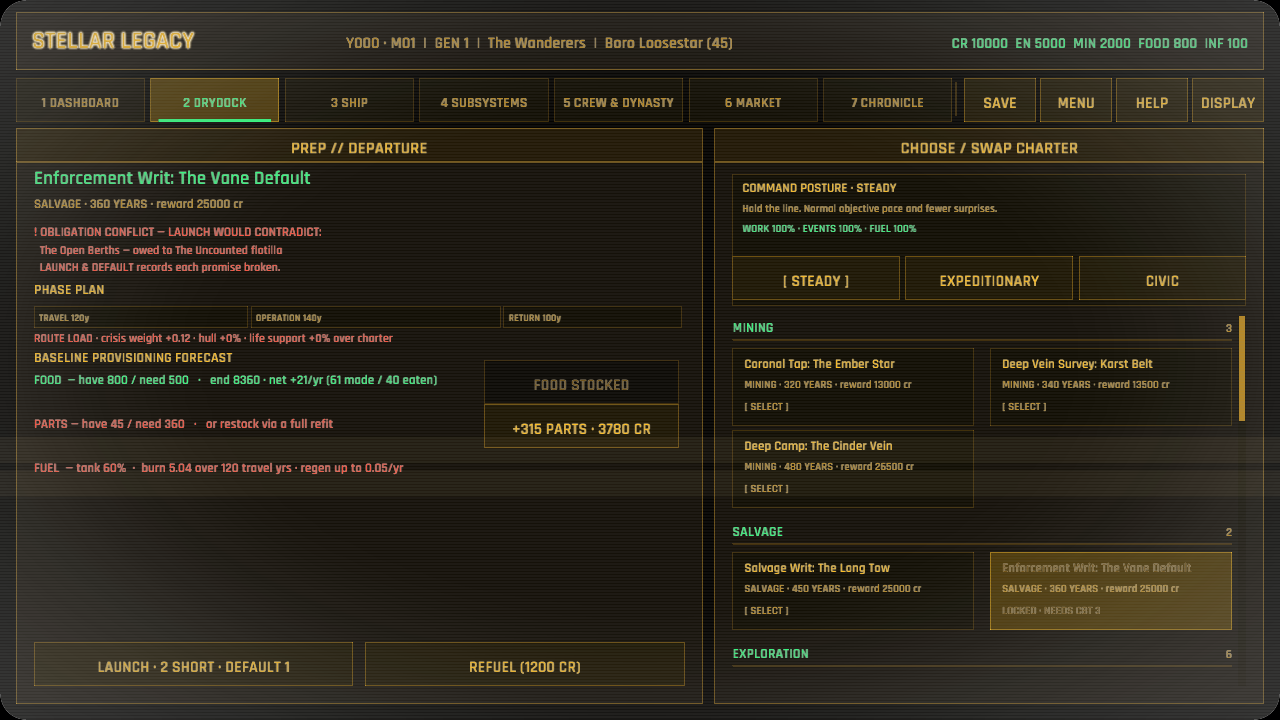
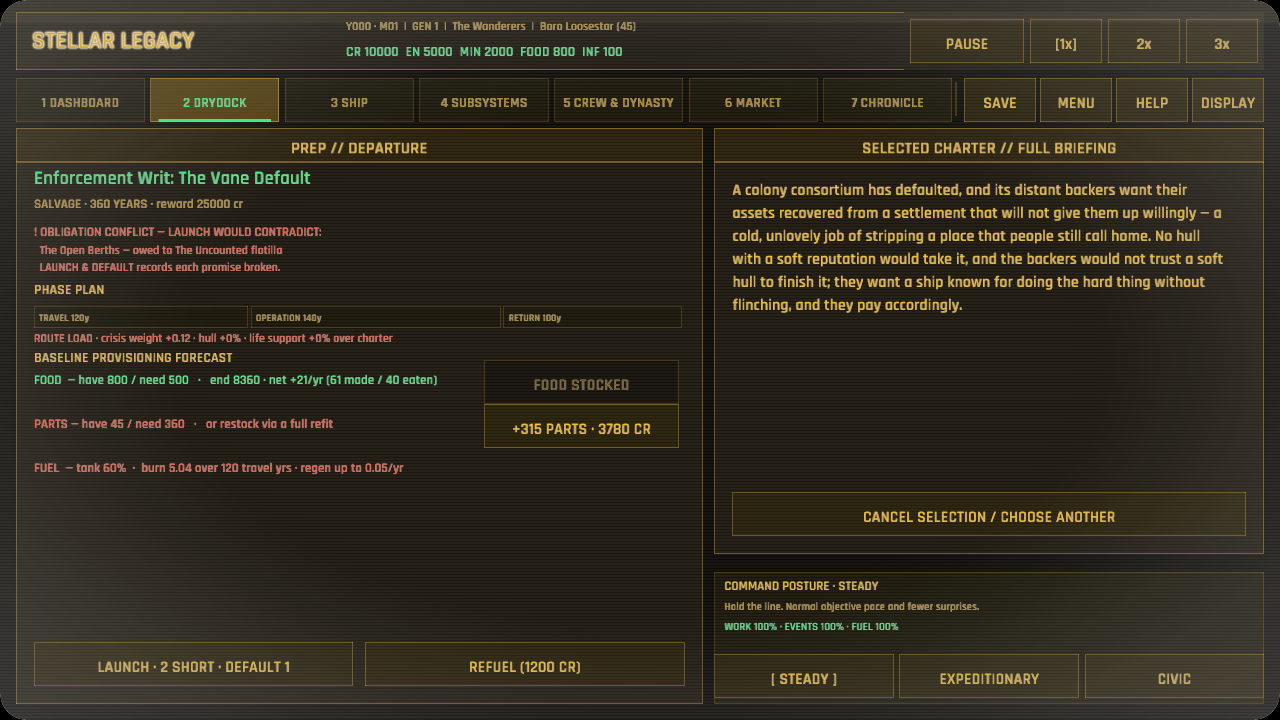
The captain reads the writ and may turn home (mission briefing and cancellation)
Show the complete selected charter in a scrollable briefing and allow selection cancellation before launch. Make the existing return-home action explicit and confirm its duration and prorated pay. Retire abandoned itinerary beats while retaining campaign consequences. Regression and abort persistence tests passed, as did the full publisher and inspected briefing and confirmation captures.

diff --git a/src/ui/mission.rs b/src/ui/mission.rs
@@ -1,0 +1,101 @@
+//! Full charter reading and explicit return-home confirmation.
+use crate::ui::{term, term_button, term_panel, GameplayCtx, UiAction};
+use macroquad::prelude::*;
+use macroquad_toolkit::prelude::*;
+use macroquad_toolkit::ui::{draw_text_block, draw_ui_text_ex, occlude, wrap_text_ex, RectExt};
+
+pub fn draw_selected(
+    ctx: &GameplayCtx<'_>,
+    area: Rect,
+    pointer: Pointer,
+    actions: &mut Vec<UiAction>,
+) {
+    let Some(template) = ctx
+        .sim
+        .selected_charter
+        .as_ref()
+        .and_then(|id| ctx.data.contracts.get(id))
+    else {
+        return;
+    };
+    let detail = Rect::new(area.x, area.y, area.w, area.h - 150.0);
+    term_panel(detail, Some("SELECTED CHARTER // FULL BRIEFING"));
+    let content = detail.inset(18.0);
+    let view = Rect::new(content.x, content.y + 32.0, content.w, content.h - 98.0);
+    let lines = wrap_text_ex(&template.description, view.w - 18.0, None, 16.0);
+    let height = lines.len() as f32 * 23.0;
+    let mut scroll = ctx.description_scroll.get();
+    scroll.update_at(view, height, pointer.position);
+    for (i, line) in lines.iter().enumerate() {
+        let y = view.y + i as f32 * 23.0 - scroll.offset();
+        if y >= view.y && y + 23.0 <= view.bottom() {
+            draw_ui_text_ex(
+                line,
+                view.x,
+                y + 17.0,
+                TextStyle::new(16.0, term::primary()).params(),
+            );
+        }
+    }
+    scroll.draw_scrollbar_with(
+        view,
+        height,
+        term::surface_inset(),
+        term::dim(),
+        term::primary(),
+    );
+    ctx.description_scroll.set(scroll);
+    if term_button(
+        Rect::new(content.x, content.bottom() - 44.0, content.w, 44.0),
+        "CANCEL SELECTION / CHOOSE ANOTHER",
+        true,
+        pointer,
+    ) {
+        actions.push(UiAction::CancelSelection);
+    }
+    crate::ui::contract_systems::outlook::draw_posture(
+        ctx,
+        Rect::new(area.x, area.bottom() - 132.0, area.w, 132.0),
+        pointer,
+        actions,
+    );
+}
+
+pub fn draw_abort(ctx: &GameplayCtx<'_>, pointer: Pointer, actions: &mut Vec<UiAction>) {
+    let Some(contract) = &ctx.sim.contract else {
+        ctx.abort_confirm.set(false);
+        return;
+    };
+    let Some(index) = contract.first_return_index() else {
+        ctx.abort_confirm.set(false);
+        return;
+    };
+    let years: u32 = contract
+        .phases
+        .iter()
+        .skip(index)
+        .map(|phase| phase.years)
+        .sum();
+    let panel = Rect::new(300.0, 190.0, 680.0, 330.0);
+    draw_rectangle(0.0, 72.0, 1280.0, 648.0, Color::new(0.0, 0.0, 0.0, 0.82));
+    occlude(Rect::new(0.0, 72.0, 1280.0, 648.0));
+    term_panel(panel, Some("CANCEL MISSION?"));
+    draw_text_block(&format!("Turn {} for home?\n\nObjective work stops now. The return leg still takes {} years. Pay is proportional to the objective banked ({:.0}% now; zero if none). Spent stores, losses and promises remain. There is no instant refund or teleport to port.\n\nThe clock waits while you choose.", contract.name, years, contract.objective_fraction() * 100.0), panel.x + 24.0, panel.y + 58.0, panel.w - 48.0, 196.0, 16.0, 4.0, term::primary());
+    let y = panel.bottom() - 64.0;
+    if term_button(
+        Rect::new(panel.x + 24.0, y, 304.0, 44.0),
+        "KEEP MISSION",
+        true,
+        pointer,
+    ) {
+        ctx.abort_confirm.set(false);
+    }
+    if term_button(
+        Rect::new(panel.x + 340.0, y, 316.0, 44.0),
+        "CONFIRM RETURN HOME",
+        true,
+        pointer,
+    ) {
+        actions.push(UiAction::AbortMission);
+    }
+}

diff --git a/src/game.rs b/src/game.rs
@@ -135,6 +135,8 @@ pub struct Game {
     /// which now outgrows its panel (grouped by objective, all tiers listed).
     /// A `Cell` so the pure-view draw path can update it through `&GameplayCtx`.
     charter_scroll: Cell<ScrollArea>,
+    description_scroll: Cell<ScrollArea>,
+    abort_confirm: Cell<bool>,
     /// Smooth-scroll state for the SHIP builder's three catalog columns
     /// (Hull/Engine/Weapon), which overflow once a mission-reward part joins a
     /// full column. One `ScrollArea` per column.
@@ -243,6 +245,8 @@ impl Game {
             custody_picker: None,
             obligation_detail: None,
             charter_scroll: Cell::new(ScrollArea::new()),
+            description_scroll: Cell::new(ScrollArea::new()),
+            abort_confirm: Cell::new(false),
             ship_scroll: Cell::new([ScrollArea::new(); 3]),
             roster_scroll: Cell::new(ScrollArea::new()),
             chronicle_scroll: Cell::new(ScrollArea::new()),
@@ -455,6 +459,8 @@ impl Game {
                     custody_picker: self.custody_picker.as_deref(),
                     obligation_detail: self.obligation_detail.as_deref(),
                     charter_scroll: &self.charter_scroll,
+                    description_scroll: &self.description_scroll,
+                    abort_confirm: &self.abort_confirm,
                     ship_scroll: &self.ship_scroll,
                     roster_scroll: &self.roster_scroll,
                     chronicle_scroll: &self.chronicle_scroll,

diff --git a/src/game/capture_scenes.rs b/src/game/capture_scenes.rs
@@ -29,6 +29,7 @@ impl Game {
         // scene; scenes opt into it explicitly (the "welcome" scene below).
         self.welcome_open = false;
         self.tutorial_open = false;
+        self.abort_confirm.set(false);
         self.display = crate::settings::DisplaySettings::default();
         self.crt_style = self.display.crt_style();
         ui::term::set_phosphor(self.display.phosphor);
@@ -385,6 +386,22 @@ impl Game {
                 let mut gameplay = GameplayState::new(sim);
                 gameplay.screen = Screen::Market;
                 self.state = crate::state::GameState::Gameplay(Box::new(gameplay));
+            }
+            "abort" => {
+                let mut sim = SimState::new_campaign(
+                    &self.data,
+                    "preservers",
+                    5,
+                    &crate::state::sim::founding_faction_ids(&self.data),
+                );
+                sim.contract = Some(contract::start_contract(
+                    self.data.contracts.get("deep_vein_survey").unwrap(),
+                    &sim,
+                ));
+                self.abort_confirm.set(true);
+                let mut g = GameplayState::new(sim);
+                g.screen = Screen::Contract;
+                self.state = crate::state::GameState::Gameplay(Box::new(g));
             }
             "contracts" => {
                 // No active contract, so the available-charters list is shown.

diff --git a/src/game/actions.rs b/src/game/actions.rs
@@ -217,6 +217,7 @@ impl Game {
                 None
             }
             UiAction::AbortMission => {
+                self.abort_confirm.set(false);
                 if let GameState::Gameplay(gameplay) = &mut self.state {
                     let sim = &mut gameplay.sim;
                     // The council turns the ship for home; pay will be prorated
@@ -405,7 +406,19 @@ impl Game {
                 }
                 None
             }
+            UiAction::CancelSelection => {
+                if let GameState::Gameplay(g) = &mut self.state {
+                    if g.sim.contract.is_none() {
+                        g.sim.selected_charter = None;
+                    }
+                }
+                self.description_scroll
+                    .set(macroquad_toolkit::ui::ScrollArea::new());
+                None
+            }
             UiAction::SelectCharter(id) => {
+                self.description_scroll
+                    .set(macroquad_toolkit::ui::ScrollArea::new());
                 // Selecting a charter never starts it (W4) — it only puts it
                 // under consideration on the PREP screen. Renown gates exactly
                 // as before; re-selecting swaps the choice.

diff --git a/src/ui/shell.rs b/src/ui/shell.rs
@@ -35,6 +35,8 @@ pub struct GameplayCtx<'a> {
     /// Smooth-scroll state for the charter board / PREP swap column (the list
     /// outgrows its panel). A `Cell` so this pure-view path can update the offset
     /// through the shared `&GameplayCtx` without threading `&mut` everywhere.
+    pub description_scroll: &'a std::cell::Cell<macroquad_toolkit::ui::ScrollArea>,
+    pub abort_confirm: &'a std::cell::Cell<bool>,
     pub charter_scroll: &'a std::cell::Cell<macroquad_toolkit::ui::ScrollArea>,
     /// Smooth-scroll state for the SHIP builder's three catalog columns, so a
     /// column that overflows (e.g. a mission-reward part added to a full one)
@@ -122,6 +124,10 @@ pub fn draw_gameplay(ctx: GameplayCtx<'_>) -> Vec<UiAction> {
     } else if ctx.sim.pending_dilemma.is_some() {
         actions.clear();
         event_modal::draw_dilemma(&ctx, pointer, &mut actions);
+    }
+    if ctx.abort_confirm.get() && !ctx.sim.has_pending_decision() {
+        actions.clear();
+        mission::draw_abort(&ctx, pointer, &mut actions);
     }
     if ctx.tutorial_enabled && ctx.tutorial_open && !ctx.sim.tutorial_dismissed {
         tutorial::draw(&ctx, pointer, &mut actions);

diff --git a/src/simulation/contract/tests/scoring.rs b/src/simulation/contract/tests/scoring.rs
@@ -295,3 +295,33 @@ fn the_family_metrics_grade_what_their_family_is_actually_judged_on() {
         "a survey flown by a crew that let its teaching lapse comes home worth less"
     );
 }
+
+#[test]
+fn cancelling_retires_itinerary_without_refunding_or_resetting_calendar() {
+    let (_, mut sim) = armed(9, "deep_vein_survey");
+    sim.contract
+        .as_mut()
+        .unwrap()
+        .beats
+        .push(crate::state::sim::CampaignBeat {
+            month_clock: 99,
+            family: "engineering".into(),
+            fired: false,
+        });
+    let credits = sim.resources.credits;
+    let calendar = sim.month_clock;
+    assert!(jump_to_return(&mut sim));
+    assert_eq!(sim.resources.credits, credits);
+    assert_eq!(sim.month_clock, calendar);
+    assert!(sim.contract.as_ref().unwrap().beats.is_empty());
+    let mut restored: SimState =
+        serde_json::from_str(&serde_json::to_string(&sim).unwrap()).unwrap();
+    assert_eq!(
+        restored.contract.as_ref().unwrap().phase,
+        ContractPhase::Return
+    );
+    assert!(
+        !jump_to_return(&mut restored),
+        "cannot repeatedly cancel the return leg"
+    );
+}

diff --git a/src/ui/contract_systems.rs b/src/ui/contract_systems.rs
@@ -235,17 +235,12 @@ fn draw_active(ctx: &GameplayCtx<'_>, area: Rect, pointer: Pointer, actions: &mu
     // to the panel bottom so it never collides with the growing metric list.
     let underway = matches!(
         contract.phase,
-        ContractPhase::Travel | ContractPhase::Operation
+        ContractPhase::Preparation | ContractPhase::Travel | ContractPhase::Operation
     );
     let abort = Rect::new(content.x, content.bottom() - 44.0, content.w, 44.0);
     if underway {
-        if term_button(
-            abort,
-            "[ TURN BACK ]  ·  pay prorated to the objective banked (0 if none)",
-            true,
-            pointer,
-        ) {
-            actions.push(UiAction::AbortMission);
+        if term_button(abort, "CANCEL MISSION / RETURN HOME", true, pointer) {
+            ctx.abort_confirm.set(true);
         }
     } else {
         term_button(abort, "— HOMEBOUND —", false, pointer);

diff --git a/src/ui/prep.rs b/src/ui/prep.rs
@@ -35,18 +35,7 @@ pub fn draw(ctx: &GameplayCtx<'_>, area: Rect, pointer: Pointer, actions: &mut V
 
     draw_prep(ctx, left, pointer, actions);
 
-    // Swap column: the charter list, so a different charter can be selected.
-    // Cards start below the panel's header band so they never overlap its title.
-    term_panel(right, Some("CHOOSE / SWAP CHARTER"));
-    let inner = right.inset(18.0);
-    crate::ui::contract_systems::outlook::draw_posture(
-        ctx,
-        Rect::new(inner.x, inner.y + 28.0, inner.w, 132.0),
-        pointer,
-        actions,
-    );
-    let cards = Rect::new(inner.x, inner.y + 170.0, inner.w, inner.h - 170.0);
-    crate::ui::contract_systems::draw_charter_cards(ctx, cards, pointer, actions);
+    crate::ui::mission::draw_selected(ctx, right, pointer, actions);
 }
 
 /// One `LABEL — have / need` provisioning line, reddened when short.

diff --git a/src/simulation/contract.rs b/src/simulation/contract.rs
@@ -588,6 +588,14 @@ pub fn jump_to_return(sim: &mut SimState) -> bool {
     if contract.months_elapsed >= return_start {
         return false;
     }
+    // Retire itinerary events from the abandoned work, without cancelling
+    // campaign obligations and their independently scheduled consequences.
+    contract.scheduled_beats_fired = contract
+        .scheduled_beats
+        .iter()
+        .take_while(|beat| beat.at_year * 12 <= return_start)
+        .count() as u32;
+    contract.beats.clear();
     contract.months_elapsed = return_start;
     contract.phase_index = return_index;
     contract.phase = contract.phases[return_index].kind;

diff --git a/src/game/realtime.rs b/src/game/realtime.rs
@@ -13,7 +13,7 @@ impl Game {
     /// and auto-resolve it once the countdown runs out. Docked, nothing advances.
     /// Skipped entirely in capture mode (deterministic screenshots).
     pub(super) fn update_realtime(&mut self, dt: f32) {
-        if self.instant_reveal || self.tutorial_holds_clock() {
+        if self.instant_reveal || self.tutorial_holds_clock() || self.abort_confirm.get() {
             return;
         }
         let (is_gameplay, key, can_advance, multiplier) = match &self.state {

diff --git a/src/ui.rs b/src/ui.rs
@@ -14,6 +14,7 @@ pub mod game_over;
 pub mod help;
 pub mod main_menu;
 pub mod market;
+pub mod mission;
 pub mod prep;
 pub mod settings;
 pub mod shell;
@@ -217,6 +218,7 @@ pub enum UiAction {
     SelectHeir(u32),
     /// Put a charter under consideration in port — never starts it (W4).
     SelectCharter(String),
+    CancelSelection,
     /// Commit the selected charter and begin the voyage (W4) — the sole path
     /// that starts a contract.
     Launch,
